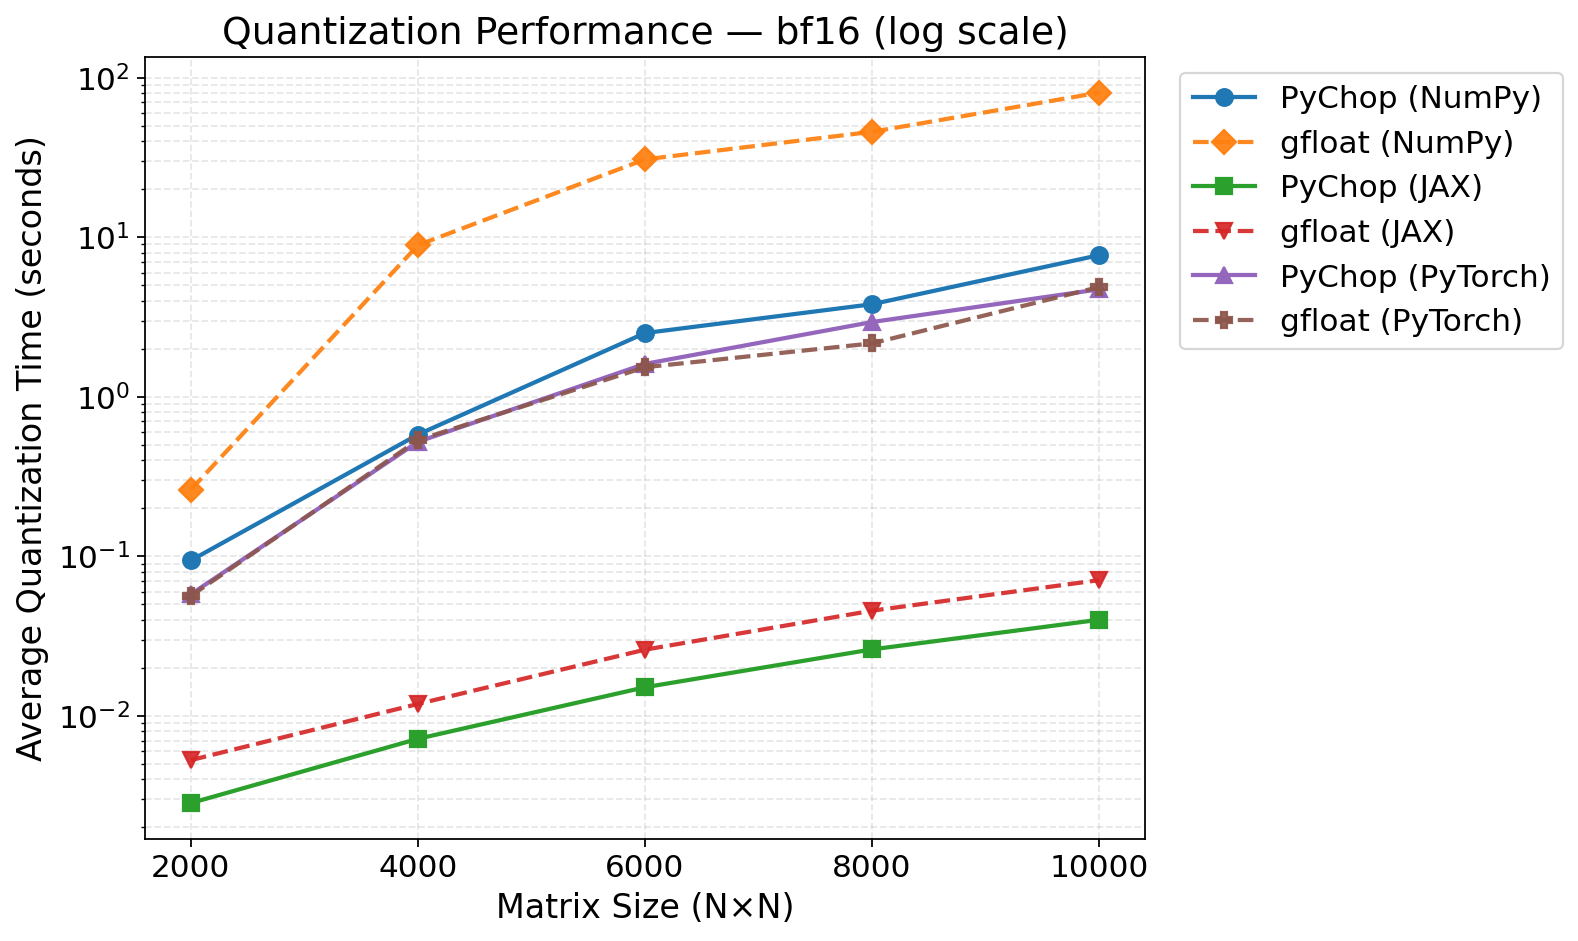
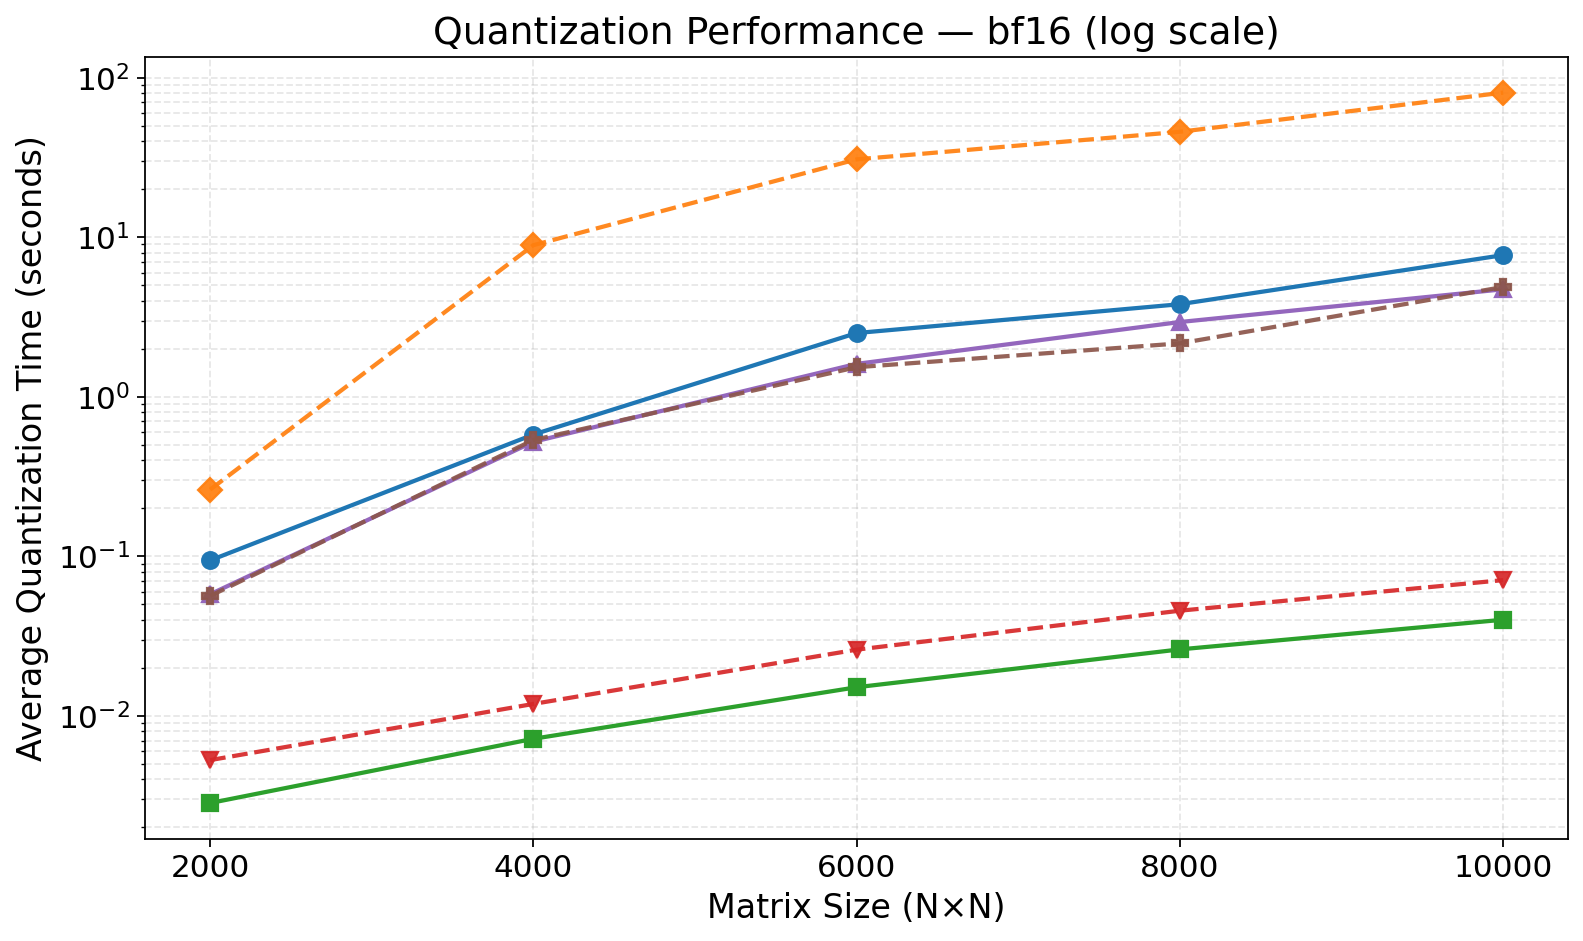
update plots

diff --git a/exps/compare_gfloat_plot.py b/exps/compare_gfloat_plot.py
@@ -77,11 +77,12 @@ for fmt in formats:
     ax.grid(True, which="both", alpha=0.3, linestyle='--')
     
     # Legend outside the plot
-    ax.legend(
-        loc='upper left',
-        bbox_to_anchor=(1.02, 1),
-        fontsize=fontsize-1,
-        frameon=True
+    if fmt == "binary16":
+        ax.legend(
+            loc='upper left',
+            bbox_to_anchor=(1.02, 1),
+            fontsize=fontsize-1,
+            frameon=True
     )
     
     plt.tight_layout()
